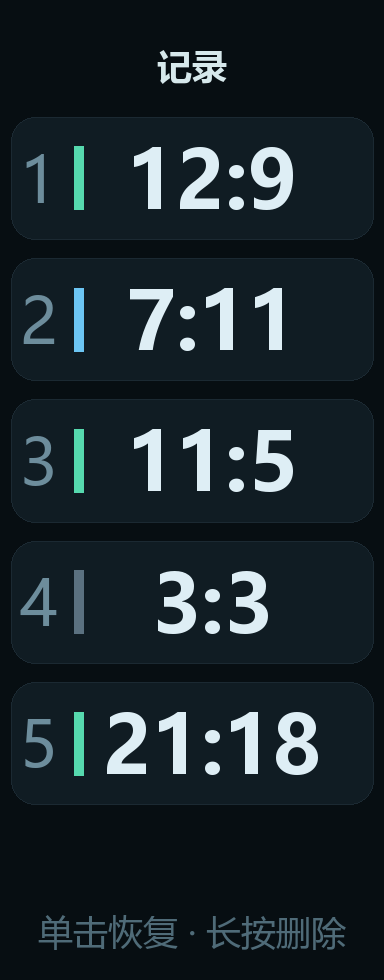
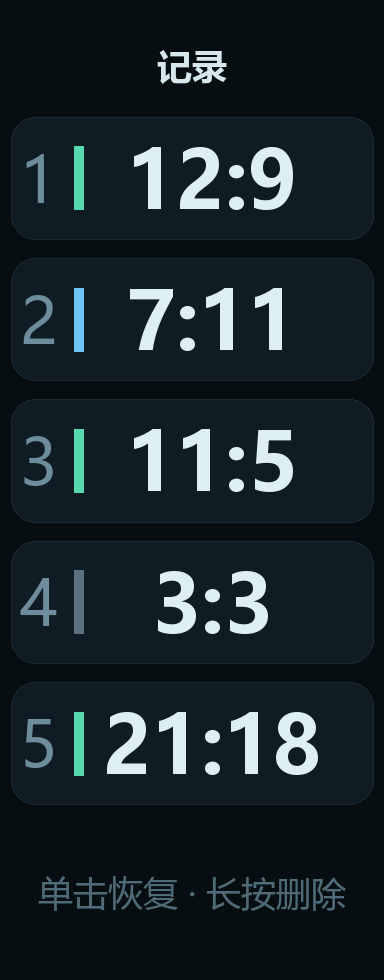
docs(media): 封面加入记录页并套仿真机身
- 右侧改为两台手环：记分页（560px 高）+ 记录页（512px 高），均带胶囊机身/边框/侧键
- 记录页用 make_list_screen 按 history.ux 的真实尺寸渲染（行高 153、页脚上移避开机身圆角）
- 文案第三条缩短为「右→左划看记录，单击恢复 / 长按删除」，避免被手环压住

Changed region(s): [[0.5312, 0.8878, 0.9062, 0.9796], [0.0938, 0.8878, 0.4688, 0.9796]]

diff --git a/publish/gen_assets.py b/publish/gen_assets.py
@@ -132,6 +132,9 @@ def _size_for(n, card_h, card_w, r):
 
 
 def make_cover(W=1200, H=800):
+    """封面：左侧文案 + 右侧两台带仿真机身的手环（记分页 / 记录页）。"""
+    from gen_radius_style import score_screen_raw, frame as band_frame
+
     img = Image.new("RGBA", (W, H), BG)
     glow = Image.new("RGBA", (W, H), (0, 0, 0, 0))
     gd = ImageDraw.Draw(glow)
@@ -145,7 +148,8 @@ def make_cover(W=1200, H=800):
 
     f_title = ImageFont.truetype(FONT_B, 104)
     f_sub = ImageFont.truetype(FONT_B, 32)
-    f_body = ImageFont.truetype(FONT_R, 31)
+    f_body = ImageFont.truetype(FONT_R, 30)
+    f_cap = ImageFont.truetype(FONT_R, 27)
 
     d.text((290, 86), "点记", font=f_title, fill=(255, 255, 255, 255))
     d.text((298, 232), "TapTally · 对局计分", font=f_sub, fill=GREEN)
@@ -153,7 +157,7 @@ def make_cover(W=1200, H=800):
     lines = [
         "单击 +1 / 长按 −1，短震反馈",
         "上绿下蓝双色分区，比分一眼看清",
-        "右→左划看记分列表，单击恢复 / 长按删除",
+        "右→左划看记录，单击恢复 / 长按删除",
         "上滑两次归零存档，左→右划退出",
     ]
     y = 320
@@ -164,18 +168,19 @@ def make_cover(W=1200, H=800):
 
     d.text((88, H - 88), "Xiaomi Smart Band 9 / Vela 快应用", font=f_body, fill=(120, 160, 160, 255))
 
-    # 手环整机（屏幕 + 机身），用独立的渲染脚本画好再贴上来
-    try:
-        from gen_radius_style import score_screen_raw, frame as band_frame
-        mock = band_frame(score_screen_raw("12", "9", 0, 240))
-        mh = 560
-        mock = mock.resize((int(mock.width * mh / mock.height), mh), Image.LANCZOS)
-    except Exception:
-        mock = band_mock(208, int(208 * 490 / 192))
-        mh = mock.height
-    mx = W - mock.width - 132
-    img.alpha_composite(mock, (mx, 96))
-    d.text((mx + 10, 96 + mh + 30), "单击加分 · 长按减分", font=f_body, fill=(150, 200, 195, 255))
+    # ---- 右侧两台手环（带仿真机身边框）----
+    shots = [
+        ("记分页", band_frame(score_screen_raw("12", "9", 0, 240)), 560, 660),
+        ("记录页", band_frame(make_list_screen([(12, 9), (7, 11), (11, 5), (3, 3), (21, 18)], 3)),
+         512, 928),
+    ]
+    for cap, dev, th, x in shots:
+        dev = dev.resize((int(dev.width * th / dev.height), th), Image.LANCZOS)
+        yy = 96 + (560 - th) // 2
+        img.alpha_composite(dev, (x, yy))
+        bb = d.textbbox((0, 0), cap, font=f_cap)
+        d.text((x + (dev.width - (bb[2] - bb[0])) / 2 - bb[0], yy + th + 22), cap,
+               font=f_cap, fill=(150, 200, 195, 255))
     return img
 
 
@@ -241,7 +246,7 @@ def make_list_screen(rows, scale=2):
     # 页脚
     f_f = ImageFont.truetype(FONT_R, foot_fs)
     bb = d.textbbox((0, 0), "单击恢复 · 长按删除", font=f_f)
-    d.text(((W - (bb[2] - bb[0])) / 2 - bb[0], H - int(H * 0.075)), "单击恢复 · 长按删除", font=f_f, fill=(79, 107, 120, 255))
+    d.text(((W - (bb[2] - bb[0])) / 2 - bb[0], H - int(H * 0.115)), "单击恢复 · 长按删除", font=f_f, fill=(79, 107, 120, 255))
     return img
 
 
